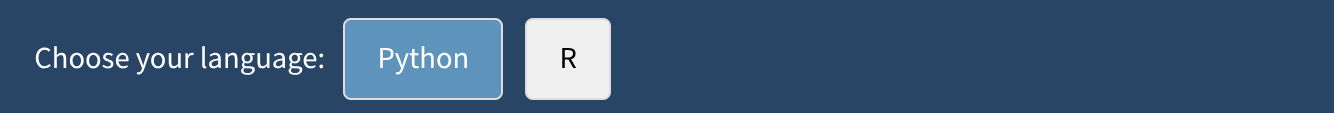
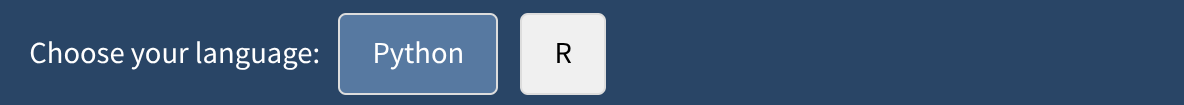
style(accessibility): increase toggle colour contrast (#170)

Changed region(s): [[0.0, 0.1143, 0.5312, 0.9143]]

diff --git a/styles/language-selector.css b/styles/language-selector.css
@@ -18,6 +18,6 @@
 }
 
 .language-button.active {
-  background-color: #2596be;
+  background-color: #3b7aa4;
   color: white;
 }
